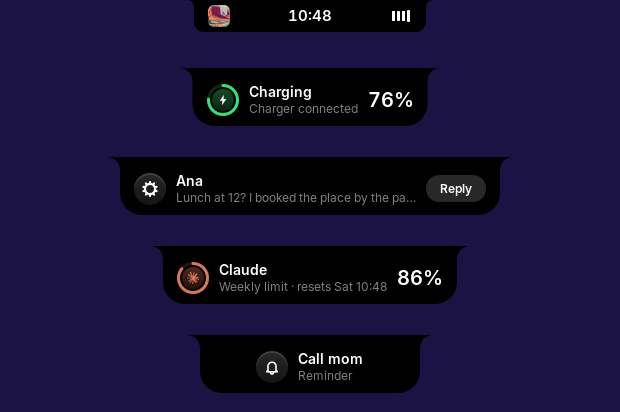
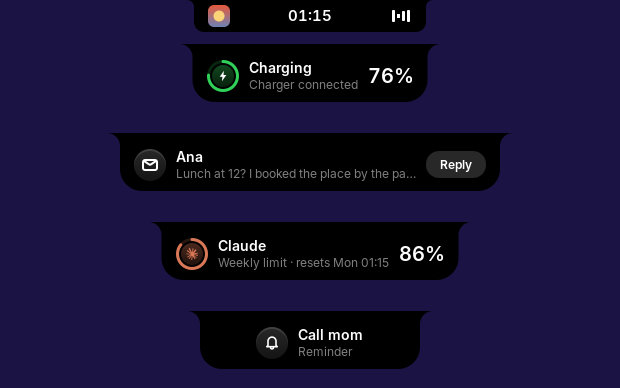
Release 0.8.0

diff --git a/README.md b/README.md
@@ -53,9 +53,9 @@ appear in the same place instead of in the middle of the screen.
 | <img src="docs/images/calendar.png" alt="Calendar" width="420"> | **Calendar.** The month beside the chosen day's events, like macOS's Calendar widget. Shows your desktop calendars (Google and others through Online Accounts) and events you add in a line: "Dinner 8:00 pm". |
 | <img src="docs/images/notifications.png" alt="The notifications page" width="420"> | **Notifications.** GNOME's notifications collect here, grouped by app, with their buttons ("Reply", "Mark as read") and Do Not Disturb a click away. |
 | <img src="docs/images/voice.png" alt="The voice assistant working through a request in steps: finding Spotify, opening it, playing jazz, setting the volume" width="420"> | **Voice assistant.** Press Super+I and ask, in English or Indonesian: play a song, find a file, put windows side by side, add a reminder, explain why the laptop is slow. It works as an agent: a request with several steps is done one after another, each step checked, with the AI you already use (Claude Code, Codex or Antigravity). |
-| <img src="docs/images/voice-modes.png" alt="The assistant listening, a request being typed, and its answer" width="420"> | **Speak or type.** It listens as soon as it opens; start typing (or click the keyboard) to type instead. Its face follows what you do, light rises from the panel's edge with your voice, and the answer stays to read. Close the island and it carries on in the background. |
+| <img src="docs/images/voice-modes.png" alt="The assistant listening, a request being typed, and its answer" width="420"> | **Speak or type.** It listens as soon as it opens; start typing (or click the keyboard) to type instead. Its face turns to the pointer and changes expression as it listens, thinks and answers, light rises from the panel's edge with your voice, and the answer stays to read. Close the island and it carries on in the background. |
 | <img src="docs/images/usage.png" alt="Claude plan usage: a bar for the 5-hour limit and one for the week" width="420"> | **AI usage.** How much of your Claude and ChatGPT plans' limits is used: one plan at a time with its logo, a bar per limit it has (5 hours, the week) and when each resets; scroll up or down, or click the dots, to switch. A warning comes as one nears its end. Only the ones you are signed in to show. |
-| <img src="docs/images/alerts.png" alt="The closed island, then alerts for charging, a notification with a Reply button, an AI plan limit and a reminder" width="420"> | **Alerts** for volume, brightness, Caps Lock, charging, low battery, Bluetooth devices with their battery, going offline, reminders, AI plan limits and GNOME notifications with their buttons, in the same place instead of the middle of the screen. |
+| <img src="docs/images/alerts.png" alt="The closed island, then alerts for charging, a notification with a Reply button, an AI plan limit and a reminder" width="420"> | **Alerts** for volume, brightness, Caps Lock, charging, low battery, Bluetooth devices with their battery, going offline, reminders, AI plan limits and GNOME notifications with their buttons, in the same place instead of the middle of the screen. Icons drawn in SF Symbols' manner move once as they appear: the bolt pulses, the bell sways, rings sweep and count up. |
 
 Also: privacy dots while the camera, microphone or screen sharing is in use,
 a recording timer with a stop button, and a slim glass top bar that leaves
@@ -432,7 +432,10 @@ The bundled [Inter](https://rsms.me/inter/) typeface (`data/fonts`) is under
 the [SIL Open Font License 1.1](data/fonts/Inter-LICENSE.txt). Lyrics come
 from [LRCLIB](https://lrclib.net). The Claude and OpenAI logos on the AI usage page
 come from [Simple Icons](https://simpleicons.org) (CC0); they are trademarks of
-Anthropic and OpenAI, shown only to name their plans. Isle is inspired by the iPhone's Dynamic
+Anthropic and OpenAI, shown only to name their plans. The assistant's face
+takes its expressions from [bloub](https://github.com/jeremy-prt/bloub) by
+Jérémy Perret, under the MIT License
+([notice](gnome-extension/NOTICE-bloub.txt)). Isle is inspired by the iPhone's Dynamic
 Island and by [NotchNook](https://lo.cafe/notchnook) and
 [Boring Notch](https://github.com/TheBoredTeam/boring.notch) on the Mac.
 

diff --git a/CHANGELOG.md b/CHANGELOG.md
@@ -6,6 +6,58 @@ All notable changes to Isle are listed here. The format follows
 
 ## [Unreleased]
 
+## [0.8.0] - 2026-10-23
+
+### Added
+
+- Isle draws the island's icons itself, in SF Symbols' manner (volume,
+  brightness, keyboard light, touchpad, airplane mode, camera, Bluetooth,
+  Wi-Fi, display, warning, update, recording), with Apple's system colours;
+  a battery on its side replaces GNOME's upright one.
+- Each alert's icon moves once as it appears: charging pulses the bolt, a
+  reminder sways the bell, Caps Lock lifts its arrow, a stopped service
+  shakes, and new notifications, versions and answers bounce. None with
+  animations turned off.
+- A ring alert (charging, battery, Bluetooth, AI limits) sweeps from empty
+  as its badge pops in and its percentage counts up; a volume or brightness
+  bar grows from empty; the speaker's waves come and go one by one with the
+  volume, and muting fades to the slashed speaker.
+- The assistant's face has expressions that morph into one another, after
+  [bloub](https://github.com/jeremy-prt/bloub)'s: attentive, surprised at
+  the first word, curious while it thinks, happy with an answer, confused
+  when it heard nothing, sad on an error, sleepy when left alone. Its eyes
+  sit on a ball that turns to the pointer.
+- An assistant answer may take two lines in its alert.
+
+### Changed
+
+- Reminders' header and rows are 24 px, so five fit beside the timer.
+- A running timer says when it ends ("Ends at 23:56").
+- A notification's icon sits beside its text when it has buttons.
+- Brightness and the keyboard light say where they apply.
+- The assistant's messages and Isle's alerts use the typographic
+  apostrophe ("Didn’t catch that").
+
+### Fixed
+
+- A reminder's row kept growing while it was renamed; its selection took
+  the theme's orange.
+- Long words (an e-mail address, a link) broke with a hyphen added.
+- A queued alert is checked again when its turn comes: none for one read
+  or withdrawn meanwhile, and only who it is from if the screen is now
+  shared. A critical notification interrupted by another alert comes back.
+- "N new notifications" counts each notification once, and plays one sound
+  when it shows.
+- Off states (Bluetooth off, no Wi-Fi, the camera switched off) no longer
+  show the "on" icon.
+- An alert that follows one of its kind (a second "Charging") animates in
+  again, and an update to a ring alert mid-sweep no longer restarts it.
+- Opening the island cancels a close still pending; "Isle restarted" no
+  longer shows the first time isled starts; Reset all settings keeps focus
+  mode's Do Not Disturb.
+- The first alert after login is laid out ahead, so it doesn't drop a
+  frame; the face draws each frame without leaving garbage to collect.
+
 ## [0.7.3] - 2026-10-22
 
 ### Changed
@@ -522,7 +574,11 @@ The first release.
   dark, vivid ones bright.
 - Text is at least 12 px throughout.
 
-[Unreleased]: https://github.com/zickrian/isle/compare/v0.7.0...HEAD
+[Unreleased]: https://github.com/zickrian/isle/compare/v0.8.0...HEAD
+[0.8.0]: https://github.com/zickrian/isle/compare/v0.7.3...v0.8.0
+[0.7.3]: https://github.com/zickrian/isle/compare/v0.7.2...v0.7.3
+[0.7.2]: https://github.com/zickrian/isle/compare/v0.7.1...v0.7.2
+[0.7.1]: https://github.com/zickrian/isle/compare/v0.7.0...v0.7.1
 [0.7.0]: https://github.com/zickrian/isle/compare/v0.5.0...v0.7.0
 [0.5.0]: https://github.com/zickrian/isle/compare/v0.4.1...v0.5.0
 [0.4.1]: https://github.com/zickrian/isle/compare/v0.4.0...v0.4.1

diff --git a/docs/install.md b/docs/install.md
@@ -135,8 +135,8 @@ system-wide packages, installed for every user of the computer with the
 system's package manager (so they update and uninstall with it):
 
 ```sh
-sudo apt install ./isle_0.7.3_amd64.deb         # Ubuntu 24.04 and newer, Debian 13
-sudo dnf install ./isle-0.7.3-1.x86_64.rpm      # Fedora 40 and newer
+sudo apt install ./isle_0.8.0_amd64.deb         # Ubuntu 24.04 and newer, Debian 13
+sudo dnf install ./isle-0.8.0-1.x86_64.rpm      # Fedora 40 and newer
 ```
 
 They put the programs in `/usr/bin`, the extension in
@@ -175,7 +175,7 @@ Release files are built by GitHub Actions from the tagged source, with a
 build provenance attestation. With the [GitHub CLI](https://cli.github.com):
 
 ```sh
-gh attestation verify isle-0.7.3-x86_64-linux.tar.gz --repo zickrian/isle
+gh attestation verify isle-0.8.0-x86_64-linux.tar.gz --repo zickrian/isle
 ```
 
 `get.sh` checks each download against its `.sha256` already.

diff --git a/SECURITY.md b/SECURITY.md
@@ -30,7 +30,7 @@ the tagged source and carry a build provenance attestation. With the
 [GitHub CLI](https://cli.github.com):
 
 ```sh
-gh attestation verify isle-0.7.3-x86_64-linux.tar.gz --repo zickrian/isle
+gh attestation verify isle-0.8.0-x86_64-linux.tar.gz --repo zickrian/isle
 ```
 
 `get.sh` also checks each download against the release's `.sha256`.
